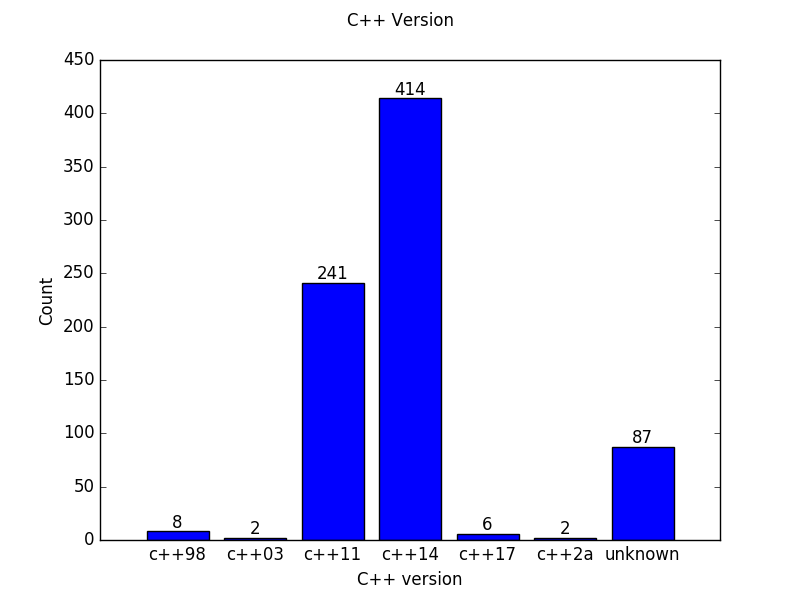
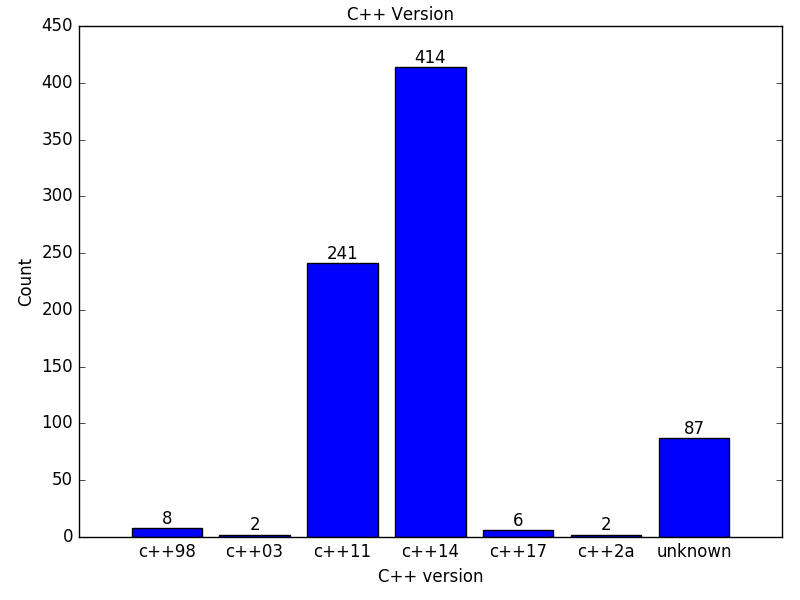
Added grouped bar graphs.

Changed region(s): [[0.0, 0.0, 1.0, 0.99]]

diff --git a/infra/src/graph_generator.py b/infra/src/graph_generator.py
@@ -7,7 +7,8 @@ import numpy as np
 
 class GraphGenerator:
    def __init__(self, data_file, output_file, graph_type,
-                title, x_axis_label, y_axis_label, render_local):
+                title, x_axis_label, y_axis_label, render_local,
+                groups):
       # Constructor arguments.
       self._data_file = data_file
       self._output_file = output_file
@@ -16,6 +17,7 @@ class GraphGenerator:
       self._x_axis_label = x_axis_label
       self._y_axis_label = y_axis_label
       self._render_local = render_local
+      self._groups = groups
 
       # Internal state.
       self._data = None
@@ -29,7 +31,7 @@ class GraphGenerator:
       fig = plt.figure()
 
       # Set title and axes.
-      fig.suptitle(self._title)
+      fig.suptitle(self._title, y=0.99)
       plt.xlabel(self._x_axis_label)
       plt.ylabel(self._y_axis_label)
 
@@ -50,6 +52,9 @@ class GraphGenerator:
       # Hide x-axis tick marks.
       plt.tick_params(axis=u'x', which=u'both', length=0)
 
+      # Set layout.
+      plt.tight_layout()
+
       # Render graph.
       if self._render_local:
          plt.show()
@@ -58,7 +63,52 @@ class GraphGenerator:
       plt.close()
 
    def _generate_grouped_bar_graph(self):
-      pass
+      fig = plt.figure()
+
+      # Set title and axes.
+      fig.suptitle(self._title, y=0.99)
+      plt.xlabel(self._x_axis_label)
+      plt.ylabel(self._y_axis_label)
+
+      # Add data.
+      labels = self._data[:,0]
+      num_groups = len(self._groups)
+      group_data = [self._data[:,i] for i in range(1, num_groups + 1)]
+      x_pos = np.arange(len(labels))
+      bar_width = 0.4
+      bar_offsets = np.arange(-(num_groups // 2 - 0.5) * bar_width,
+                              (num_groups // 2 - 0.5),
+                              bar_width)
+      color = iter(['darkgreen', 'firebrick', 'blue', 'orange', 'seagreen', 'red'])
+      group_rects = [plt.bar(x_pos + bar_offset - bar_width / 2, data, bar_width, label=name,
+                             color=next(color))
+                     for bar_offset, name, data
+                     in zip(bar_offsets, self._groups, group_data)]
+      plt.xticks(x_pos, labels)
+
+      # Add legend.
+      plt.legend()
+
+      # Add values on top of the bars.
+      height_offset = 0.02 * max([max(data.astype(np.int)) for data in group_data])
+      for rects in group_rects:
+         for rect in rects:
+            height = int(rect.get_height())
+            plt.text(rect.get_x() + bar_width / 2, height + height_offset, str(height),
+                     ha='center', va='center')
+
+      # Hide x-axis tick marks.
+      plt.tick_params(axis=u'x', which=u'both', length=0)
+
+      # Set layout.
+      plt.tight_layout()
+
+      # Render graph.
+      if self._render_local:
+         plt.show()
+      else:
+         plt.savefig(self._output_file)
+      plt.close()
 
    def _generate_cdf_graph(self):
       pass
@@ -84,6 +134,7 @@ if __name__ == '__main__':
    parser.add_argument('title', help='title for the graph')
    parser.add_argument('x_axis_label', help='label for x-axis')
    parser.add_argument('y_axis_label', help='label for y-axis')
+   parser.add_argument('--groups', help='group names for grouped bar graph', nargs='+')
    parser.add_argument('-r', '--render-local', action='store_true',
                        help='render figure locally using X11')
    args = parser.parse_args()
@@ -94,5 +145,5 @@ if __name__ == '__main__':
 
    g = GraphGenerator(args.data_file, args.output_file, args.graph_type,
                       args.title, args.x_axis_label, args.y_axis_label,
-                      args.render_local)
+                      args.render_local, args.groups)
    g.run()
